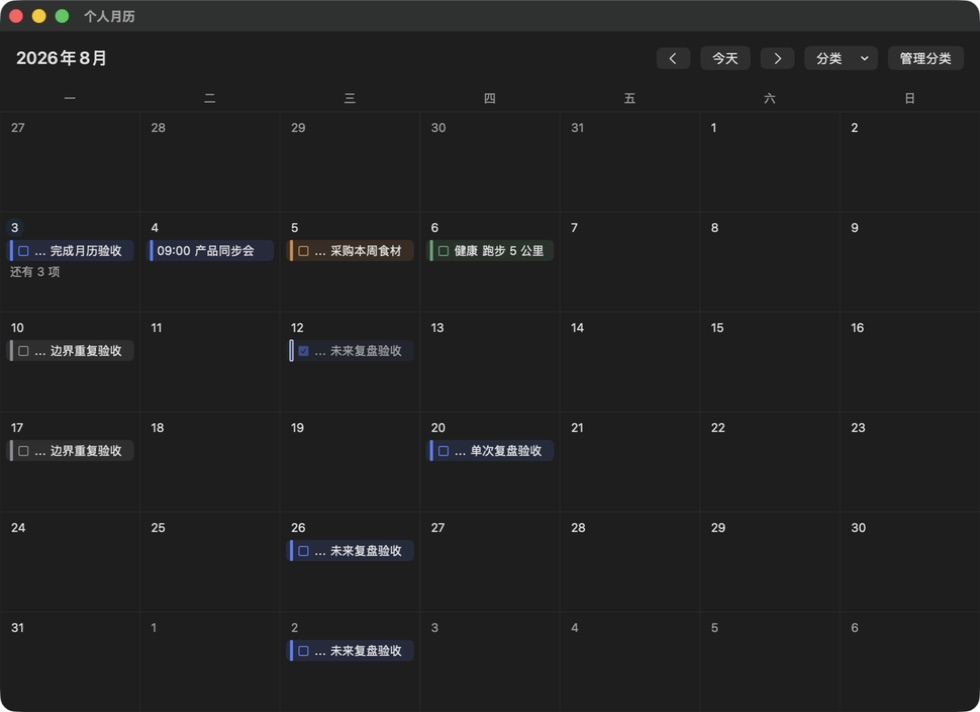
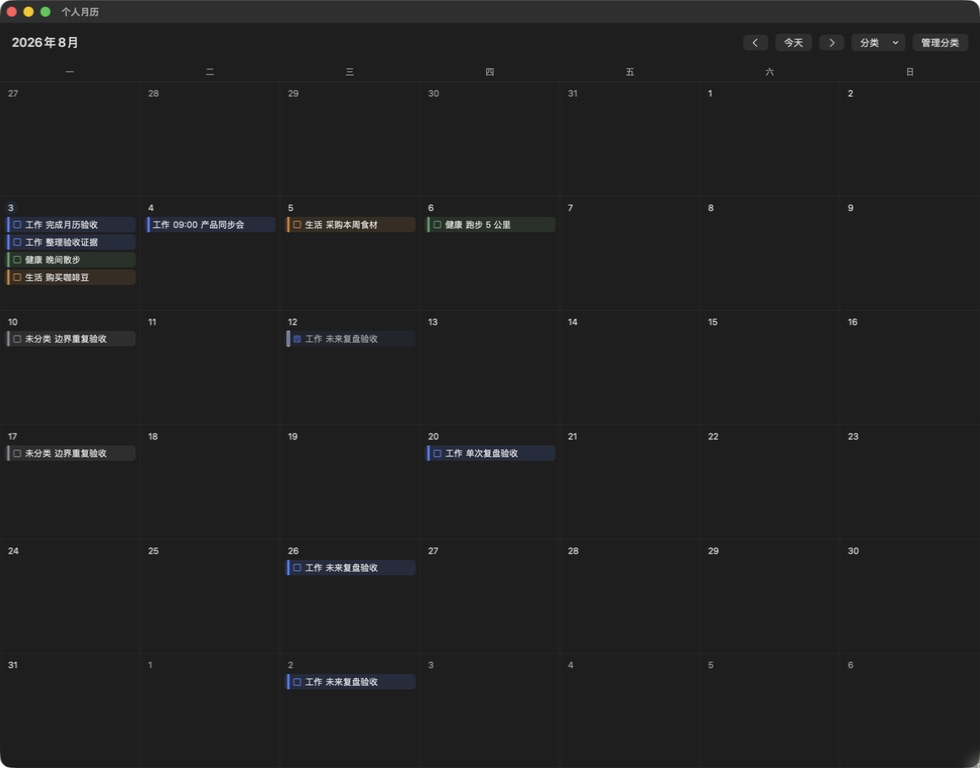
fix: 修复最小窗口分类可读性与跨日刷新

diff --git a/Sources/CalendarApp/Month/MonthView.swift b/Sources/CalendarApp/Month/MonthView.swift
@@ -7,9 +7,57 @@ enum MonthEmptyStateHintPolicy {
     }
 }
 
+struct MonthViewTodayRefreshPolicy {
+    let now: () -> Date
+    let calendar: Calendar
+
+    static let calendarDayChangedNotification = Notification.Name.NSCalendarDayChanged
+
+    var today: CalendarDate {
+        CalendarDate.localDay(containing: now(), in: calendar.timeZone)
+    }
+
+    static func shouldRefresh(for scenePhase: ScenePhase) -> Bool {
+        scenePhase == .active
+    }
+
+    static var live: MonthViewTodayRefreshPolicy {
+        MonthViewTodayRefreshPolicy(now: Date.init, calendar: .autoupdatingCurrent)
+    }
+}
+
+enum MonthViewTodayRefreshEvent {
+    case calendarDayChanged
+    case scenePhaseChanged(ScenePhase)
+}
+
+struct MonthViewTodayRefreshController {
+    let policy: MonthViewTodayRefreshPolicy
+
+    func handle(
+        _ event: MonthViewTodayRefreshEvent,
+        updateToday: (CalendarDate) -> Void
+    ) {
+        guard shouldRefresh(for: event) else { return }
+        updateToday(policy.today)
+    }
+
+    private func shouldRefresh(for event: MonthViewTodayRefreshEvent) -> Bool {
+        switch event {
+        case .calendarDayChanged:
+            true
+        case let .scenePhaseChanged(scenePhase):
+            MonthViewTodayRefreshPolicy.shouldRefresh(for: scenePhase)
+        }
+    }
+}
+
 struct MonthView: View {
     let store: CalendarStore
+    private let todayRefreshPolicy: MonthViewTodayRefreshPolicy
+    private let todayRefreshController: MonthViewTodayRefreshController
     @Environment(\.openWindow) private var openWindow
+    @Environment(\.scenePhase) private var scenePhase
     @StateObject private var model: MonthViewModel
     @StateObject private var dropCoordinator: CalendarDropCoordinator
     @AppStorage("calendar.hiddenCategoryIDs") private var storedHiddenCategoryIDs = ""
@@ -19,9 +67,14 @@ struct MonthView: View {
     @State private var selectedItem: ProjectedItem?
     @State private var isRecurringDropConfirmationPresented = false
 
-    init(store: CalendarStore) {
+    init(
+        store: CalendarStore,
+        todayRefreshPolicy: MonthViewTodayRefreshPolicy = .live
+    ) {
         self.store = store
-        let today = CalendarDate.localDay(containing: Date(), in: .current)
+        self.todayRefreshPolicy = todayRefreshPolicy
+        todayRefreshController = MonthViewTodayRefreshController(policy: todayRefreshPolicy)
+        let today = todayRefreshPolicy.today
         _model = StateObject(wrappedValue: MonthViewModel(
             displayedMonth: today,
             state: store.state,
@@ -51,6 +104,14 @@ struct MonthView: View {
         .onAppear {
             hiddenCategoryIDs = CategoryFilterView.decode(storedHiddenCategoryIDs)
             refreshProjection()
+        }
+        .onReceive(NotificationCenter.default.publisher(
+            for: MonthViewTodayRefreshPolicy.calendarDayChangedNotification
+        )) { _ in
+            refreshToday(for: .calendarDayChanged)
+        }
+        .onChange(of: scenePhase) { _, newPhase in
+            refreshToday(for: .scenePhaseChanged(newPhase))
         }
         .onChange(of: store.state) { _, _ in refreshProjection() }
         .onChange(of: hiddenCategoryIDs) { _, _ in refreshProjection() }
@@ -144,7 +205,7 @@ struct MonthView: View {
                 Image(systemName: "chevron.left")
             }
             .help("上个月")
-            Button("今天") { model.goToToday(CalendarDate.localDay(containing: Date(), in: .current)) }
+            Button("今天") { model.goToToday(todayRefreshPolicy.today) }
             Button { model.goToNextMonth() } label: {
                 Image(systemName: "chevron.right")
             }
@@ -256,10 +317,20 @@ struct MonthView: View {
     }
 
     private func refreshProjection() {
+        refreshProjection(today: todayRefreshPolicy.today)
+    }
+
+    private func refreshToday(for event: MonthViewTodayRefreshEvent) {
+        todayRefreshController.handle(event) { today in
+            refreshProjection(today: today)
+        }
+    }
+
+    private func refreshProjection(today: CalendarDate) {
         model.update(
             state: store.state,
             hiddenCategoryIDs: hiddenCategoryIDs,
-            today: CalendarDate.localDay(containing: Date(), in: .current)
+            today: today
         )
     }
 }

diff --git a/Sources/CalendarApp/Month/CalendarItemRow.swift b/Sources/CalendarApp/Month/CalendarItemRow.swift
@@ -46,10 +46,41 @@ enum CalendarItemRowInteractionRouter {
     }
 }
 
+struct CalendarItemRowLayout: Equatable {
+    let categoryMinimumWidth: CGFloat?
+    let categoryMaximumWidth: CGFloat?
+    let titleMinimumWidth: CGFloat?
+    let timeLayoutPriority: Double
+    let categoryLayoutPriority: Double
+    let titleLayoutPriority: Double
+
+    static let standard = CalendarItemRowLayout(
+        categoryMinimumWidth: nil,
+        categoryMaximumWidth: nil,
+        titleMinimumWidth: nil,
+        timeLayoutPriority: 2,
+        categoryLayoutPriority: 0,
+        titleLayoutPriority: 1
+    )
+
+    static let compact = CalendarItemRowLayout(
+        categoryMinimumWidth: 24,
+        categoryMaximumWidth: 36,
+        titleMinimumWidth: 20,
+        timeLayoutPriority: 4,
+        categoryLayoutPriority: 3,
+        titleLayoutPriority: 1
+    )
+}
+
 struct CalendarItemRowPresentation: Equatable {
     let categoryName: String?
     let timeText: String?
     let title: String
+    let layout: CalendarItemRowLayout
+
+    private static let compactRowContentWidth = 120.0
+    private static let compactCategoryCharacterLimit = 2
 
     static func make(
         availableContentWidth: Double,
@@ -57,12 +88,22 @@ struct CalendarItemRowPresentation: Equatable {
         timeRange: LocalTimeRange?,
         title: String
     ) -> CalendarItemRowPresentation {
-        let isCompactTimedRow = timeRange != nil && availableContentWidth < 120
+        let isCompactRow = availableContentWidth < compactRowContentWidth
         return CalendarItemRowPresentation(
-            categoryName: isCompactTimedRow ? nil : categoryName,
+            categoryName: isCompactRow
+                ? compactCategoryName(from: categoryName)
+                : categoryName,
             timeText: timeRange.map { timeString($0.start) },
-            title: title
+            title: title,
+            layout: isCompactRow ? .compact : .standard
         )
+    }
+
+    private static func compactCategoryName(from categoryName: String) -> String {
+        guard categoryName.count > compactCategoryCharacterLimit else {
+            return categoryName
+        }
+        return "\(categoryName.prefix(compactCategoryCharacterLimit))…"
     }
 
     private static func timeString(_ minute: MinuteOfDay) -> String {
@@ -138,16 +179,29 @@ struct CalendarItemRow: View {
                         if let categoryName = presentation.categoryName {
                             Text(categoryName)
                                 .lineLimit(1)
+                                .truncationMode(.tail)
+                                .frame(
+                                    minWidth: presentation.layout.categoryMinimumWidth,
+                                    maxWidth: presentation.layout.categoryMaximumWidth,
+                                    alignment: .leading
+                                )
+                                .fixedSize(
+                                    horizontal: presentation.layout.categoryMinimumWidth != nil,
+                                    vertical: false
+                                )
+                                .layoutPriority(presentation.layout.categoryLayoutPriority)
                         }
                         if let timeText = presentation.timeText {
                             Text(timeText)
                                 .monospacedDigit()
                                 .fixedSize(horizontal: true, vertical: false)
-                                .layoutPriority(2)
+                                .layoutPriority(presentation.layout.timeLayoutPriority)
                         }
                         Text(presentation.title)
                             .lineLimit(1)
-                            .layoutPriority(1)
+                            .truncationMode(.tail)
+                            .frame(minWidth: presentation.layout.titleMinimumWidth, alignment: .leading)
+                            .layoutPriority(presentation.layout.titleLayoutPriority)
                         Spacer(minLength: 0)
                     }
                     .frame(maxWidth: .infinity, maxHeight: .infinity, alignment: .leading)

diff --git a/Tests/CalendarAppTests/CalendarItemRowPresentationTests.swift b/Tests/CalendarAppTests/CalendarItemRowPresentationTests.swift
@@ -5,7 +5,7 @@ import Testing
 @Suite("CalendarItemRowPresentationTests")
 @MainActor
 struct CalendarItemRowPresentationTests {
-    @Test func compactTimedRowKeepsFullStartTimeAndPrioritizesTitleOverCategory() throws {
+    @Test func compactTimedRowKeepsFullStartTimeReadableCategoryAndTitle() throws {
         let range = try LocalTimeRange(
             start: .init(hour: 9, minute: 0)!,
             end: .init(hour: 10, minute: 0)!
@@ -17,9 +17,14 @@ struct CalendarItemRowPresentationTests {
             timeRange: range,
             title: "产品同步会"
         )
-        #expect(compact.categoryName == nil)
+        #expect(compact.categoryName == "工作")
         #expect(compact.timeText == "09:00")
         #expect(compact.title == "产品同步会")
+        #expect(compact.layout.categoryMinimumWidth == 24)
+        #expect(compact.layout.categoryMaximumWidth == 36)
+        #expect(compact.layout.titleMinimumWidth == 20)
+        #expect(compact.layout.timeLayoutPriority > compact.layout.categoryLayoutPriority)
+        #expect(compact.layout.categoryLayoutPriority > compact.layout.titleLayoutPriority)
 
         let regular = CalendarItemRowPresentation.make(
             availableContentWidth: 142,
@@ -29,5 +34,43 @@ struct CalendarItemRowPresentationTests {
         )
         #expect(regular.categoryName == "工作")
         #expect(regular.timeText == "09:00")
+    }
+
+    @Test func compactTimedRowUsesReadableCategoryPrefixInsteadOfMeaninglessEllipsis() throws {
+        let range = try LocalTimeRange(
+            start: .init(hour: 9, minute: 0)!,
+            end: .init(hour: 10, minute: 0)!
+        )
+
+        let compact = CalendarItemRowPresentation.make(
+            availableContentWidth: 112,
+            categoryName: "重点客户项目",
+            timeRange: range,
+            title: "需要被合理省略的长标题"
+        )
+
+        #expect(compact.categoryName == "重点…")
+        #expect(compact.categoryName != "…")
+        #expect(compact.timeText == "09:00")
+        #expect(compact.title == "需要被合理省略的长标题")
+    }
+
+    @Test func narrowUntimedRowAlsoKeepsReadableCategoryPrefixAndTitle() {
+        let compact = CalendarItemRowPresentation.make(
+            availableContentWidth: 112,
+            categoryName: "重点客户项目",
+            timeRange: nil,
+            title: "需要被合理省略的长标题"
+        )
+
+        #expect(compact.categoryName == "重点…")
+        #expect(compact.categoryName != "…")
+        #expect(compact.categoryName != nil)
+        #expect(compact.timeText == nil)
+        #expect(compact.title == "需要被合理省略的长标题")
+        #expect(compact.layout.categoryMinimumWidth == 24)
+        #expect(compact.layout.categoryMaximumWidth == 36)
+        #expect(compact.layout.categoryLayoutPriority > compact.layout.titleLayoutPriority)
+        #expect(compact.layout.titleMinimumWidth == 20)
     }
 }

diff --git a/Tests/CalendarAppTests/MonthViewTodayRefreshPolicyTests.swift b/Tests/CalendarAppTests/MonthViewTodayRefreshPolicyTests.swift
@@ -1,0 +1,66 @@
+import CalendarDomain
+import Foundation
+import SwiftUI
+import Testing
+@testable import CalendarApp
+
+@Suite("MonthViewTodayRefreshPolicyTests")
+@MainActor
+struct MonthViewTodayRefreshPolicyTests {
+    @Test func calendarDayChangeReReadsInjectedClockAndUpdatesTarget() {
+        var calendar = Calendar(identifier: .gregorian)
+        calendar.timeZone = TimeZone(secondsFromGMT: 0)!
+        var now = calendar.date(from: DateComponents(
+            year: 2026, month: 8, day: 3, hour: 23, minute: 59
+        ))!
+        let policy = MonthViewTodayRefreshPolicy(now: { now }, calendar: calendar)
+        let controller = MonthViewTodayRefreshController(policy: policy)
+        let target = TodayUpdateTarget()
+
+        #expect(MonthViewTodayRefreshPolicy.calendarDayChangedNotification == .NSCalendarDayChanged)
+
+        now = calendar.date(byAdding: .minute, value: 2, to: now)!
+        controller.handle(.calendarDayChanged, updateToday: target.update)
+
+        #expect(target.updatedDates == [CalendarDate(year: 2026, month: 8, day: 4)!])
+    }
+
+    @Test func activeScenePhaseReReadsInjectedClockAndUpdatesTarget() {
+        var calendar = Calendar(identifier: .gregorian)
+        calendar.timeZone = TimeZone(secondsFromGMT: 0)!
+        var now = calendar.date(from: DateComponents(
+            year: 2026, month: 8, day: 4, hour: 23, minute: 59
+        ))!
+        let policy = MonthViewTodayRefreshPolicy(now: { now }, calendar: calendar)
+        let controller = MonthViewTodayRefreshController(policy: policy)
+        let target = TodayUpdateTarget()
+
+        now = calendar.date(byAdding: .minute, value: 2, to: now)!
+        controller.handle(.scenePhaseChanged(.active), updateToday: target.update)
+
+        #expect(target.updatedDates == [CalendarDate(year: 2026, month: 8, day: 5)!])
+    }
+
+    @Test func inactiveScenePhaseDoesNotUpdateTarget() {
+        var calendar = Calendar(identifier: .gregorian)
+        calendar.timeZone = TimeZone(secondsFromGMT: 0)!
+        let now = calendar.date(from: DateComponents(
+            year: 2026, month: 8, day: 4, hour: 0, minute: 1
+        ))!
+        let policy = MonthViewTodayRefreshPolicy(now: { now }, calendar: calendar)
+        let controller = MonthViewTodayRefreshController(policy: policy)
+        let target = TodayUpdateTarget()
+
+        controller.handle(.scenePhaseChanged(.inactive), updateToday: target.update)
+
+        #expect(target.updatedDates.isEmpty)
+    }
+
+    private final class TodayUpdateTarget {
+        private(set) var updatedDates: [CalendarDate] = []
+
+        func update(_ today: CalendarDate) {
+            updatedDates.append(today)
+        }
+    }
+}

diff --git a/docs/validation/calendar-v1/acceptance.md b/docs/validation/calendar-v1/acceptance.md
@@ -2,8 +2,8 @@
 
 验收日期：2026-08-03
 
-打包目标：`dist/个人月历.app`
-证据原则：自动化测试只证明其覆盖的语义；涉及真实窗口、交互、外观、重启或文件面板的条目，必须以打包 App 的实际操作和对应 PNG/命令证据确认，不能由源码检查替代。
+权威交付物：`dist/个人月历.app.zip`。`dist/个人月历.app` 只是本机启动和归档前的中间副本；该工作目录位于 Documents 时，FileProvider 扩展属性可能污染裸 App，故不得把它写成权威交付物或权威签名包。
+证据原则：自动化测试只证明其覆盖的语义；涉及真实窗口、交互、外观、重启或文件面板的条目，必须以从权威 ZIP 解出的 App 的实际操作和对应 PNG/命令证据确认，不能由源码检查替代。
 
 | # | 场景 | Expected | Automated evidence | Manual evidence | Result |
 | --- | --- | --- | --- | --- | --- |
@@ -24,7 +24,7 @@
 | 15 | 月份导航/今天/选中日 | 上月、下月、今天正确改变月份；今天和选中日期有清晰标识 | `MonthGridBuilderTests.august2026ProducesMondayFirstFortyTwoCellGrid`、`MonthViewModelTests.monthNavigationAndTodaySelectionUseCivilMonthArithmetic` | 真实上月到 2026 年 7 月、下月回 8 月、今天回当前月 | 通过 |
 | 16 | 关闭重启后持久化 | 分类、事项、重复例外与完成状态在进程重启后仍完整 | `JSONCalendarRepositoryTests.saveThenReopenRoundTripsState`、`completeGraphRoundTripsExactly` | 多次 quit/relaunch；有效恢复后再次重启，4 分类/7 事项/2 系列、8/12 完成、8/20 单次例外均完整 | 通过 |
[1 lines of base64/hex data omitted]
-| 18 | 浅色/深色可读性与月格密度 | 浅深外观下分类色+文字均可读；任务/日程可辨；完成任务降权但可读；最小尺寸无裁切，六周月和“还有 N 项”可扫读 | `CategoryManagerViewModelTests.readabilityForCustomColorMatchesRenderedTheme`、`completedTaskAccentUsesRenderedOpacityWhenDecidingItsOutline`、`MonthViewModelTests.itemCapacityPreservesOneOverflowRow`、`CalendarItemRowPresentationTests.compactTimedRowKeepsFullStartTimeAndPrioritizesTitleOverCategory` | 最终同一 fixture 的浅/深、1180 宽/980 宽均真实采集；六周、多色、任务/日程/完成、溢出与完整 `09:00` 均可读。CUA 虚拟显示限制使 1180 图像实际为 1180×712、980 图为 980×712（包含标题栏、内容最小高 680），不是 820px 总高 | 通过（视觉与最小内容高度已验；截图总高度受 CUA 环境限制，未声称 820px 像素图） |
+| 18 | 浅色/深色可读性与月格密度 | 浅深外观下分类色+文字均可读；任务/日程可辨；完成任务降权但可读；最小尺寸无裁切，六周月和“还有 N 项”可扫读 | `CategoryManagerViewModelTests.readabilityForCustomColorMatchesRenderedTheme`、`completedTaskAccentUsesRenderedOpacityWhenDecidingItsOutline`、`MonthViewModelTests.itemCapacityPreservesOneOverflowRow`、`CalendarItemRowPresentationTests.compactTimedRowKeepsFullStartTimeReadableCategoryAndTitle`、`compactTimedRowUsesReadableCategoryPrefixInsteadOfMeaninglessEllipsis`、`narrowUntimedRowAlsoKeepsReadableCategoryPrefixAndTitle` | 主控从权威 `dist/个人月历.app.zip` 解出 App 后，以真实 CUA 在同一 fixture 重采浅/深 980 图。两种外观下，定时行同时显示分类色条、可辨“工作”、完整 `09:00` 与标题“产品同步会”；无时间任务也显示分类文字与标题；六周、多分类色、完成态和月格均无裁切。截图实际为 980×768（含标题栏；内容高度不低于 680），系统外观最终恢复深色。 | 通过 |
 
 ## 截图清单与检查点
 
@@ -32,11 +32,11 @@
 | --- | --- | --- |
 | `light-1180x820.png` | 打包 App 浅色、1180×820、六周月份、无时间任务、定时日程、完成任务、多分类色及“还有 N 项” | 已采集并目检：最终浅色 fixture、实际像素 1180×712；CUA 虚拟显示限制，内容最小高 680，非 820px 总高 |
 | `dark-1180x820.png` | 同一真实 fixture 的深色、1180×820 | 已采集并目检：最终深色 fixture、实际像素 1180×712；同受 CUA 虚拟显示限制 |
-| `light-980x680.png` | 打包 App 浅色最小窗口、同一完整 fixture、无裁切 | 已采集并目检：最终浅色最小窗口、实际像素 980×712；定时行完整 `09:00` |
-| `dark-980x680.png` | 打包 App 深色最小窗口、同一完整 fixture、无裁切 | 已采集并目检：最终深色最小窗口、实际像素 980×712；定时行完整 `09:00` |
+| `light-980x680.png` | 从权威 ZIP 解出的 App：浅色最小窗口、同一完整 fixture、无裁切 | 已重采并目检：实际 980×768；分类色与文字、完整 `09:00`、标题、六周月格均可读 |
+| `dark-980x680.png` | 从权威 ZIP 解出的 App：深色最小窗口、同一完整 fixture、无裁切 | 已重采并目检：实际 980×768；与浅色使用同一 fixture，分类语义和标题均未丢失 |
 | `quick-create-focus-light.png` | 浅色日期格旁快速创建浮层，标题插入点/焦点明显 | 已采集并目检：实际像素 1180×712；快速创建浮层、标题文本和蓝色焦点框可见 |
 | `day-drawer-980x680.png` | 最小窗口拥挤日期的“还有 N 项”与完整当天抽屉 | 已采集并目检：实际像素 980×712；月格“还有 3 项”和右侧当天完整抽屉可见 |
 | `category-manager-previews.png` | 独立分类管理窗口，同时显示浅/深色预览和对比值 | 已采集并目检：实际像素 900×552；浅/深预览同时显示，对比值为 14.38:1 与 13.12:1 |
 | `recurring-scope-dialog.png` | 月格上方的“仅本次 / 本次及以后 / 取消”确认 | 已采集并目检：实际像素 3024×1964；三个范围选项清晰可见 |
 
-最终结论：18 条场景中，16 条已完成自动化与真实手动路径并通过；#8 重复事项整段拖拽、#10 普通事项拖拽的真实 `sky.drag` 手势未触发，故保留为“部分通过/真实手势未确认”，不把它们写成全绿。#1 的排序需求已由真实可访问备用入口与 Command-Z 完成。四张基础截图受 CUA 虚拟显示限制为 712px 总高，已如实记录；这不影响已确认的最小内容高度和可见视觉合同。
+最终结论：18 条场景中，16 条已完成自动化与真实手动路径并通过；#8 重复事项整段拖拽、#10 普通事项拖拽仍为“部分通过/真实手势未确认”，不把它们写成全绿。#18 已由权威 ZIP 解出的 App 在浅/深 980 最小窗口下重采并通过；新图实际为 980×768，内容高度满足不低于 680 的合同。#1 的排序需求已由真实可访问备用入口与 Command-Z 完成。
